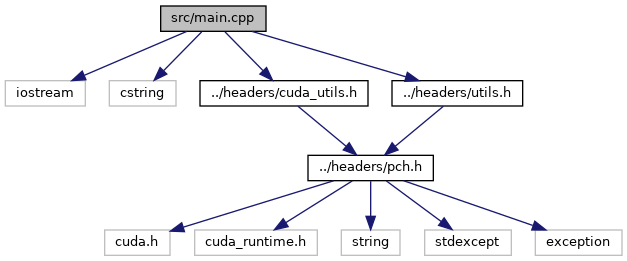
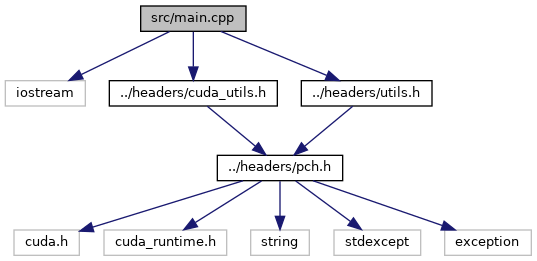
Removed header

diff --git a/Documentation/html/main_8cpp.html b/Documentation/html/main_8cpp.html
@@ -77,7 +77,6 @@ $(function() {
 <p>Main file.  
 <a href="#details">More...</a></p>
 <div class="textblock"><code>#include &lt;iostream&gt;</code><br />
-<code>#include &lt;cstring&gt;</code><br />
 <code>#include &quot;<a class="el" href="cuda__utils_8h_source.html">../headers/cuda_utils.h</a>&quot;</code><br />
 <code>#include &quot;<a class="el" href="utils_8h_source.html">../headers/utils.h</a>&quot;</code><br />
 </div><div class="textblock"><div class="dynheader">
@@ -85,17 +84,16 @@ Include dependency graph for main.cpp:</div>
 <div class="dyncontent">
 <div class="center"><img src="main_8cpp__incl.png" border="0" usemap="#asrc_2main_8cpp" alt=""/></div>
 <map name="asrc_2main_8cpp" id="asrc_2main_8cpp">
-<area shape="rect" title="Main file." alt="" coords="161,5,266,32"/>
+<area shape="rect" title="Main file." alt="" coords="141,5,246,32"/>
 <area shape="rect" title=" " alt="" coords="5,80,85,107"/>
-<area shape="rect" title=" " alt="" coords="109,80,176,107"/>
-<area shape="rect" href="cuda__utils_8h.html" title="Holds CUDA utilities." alt="" coords="200,80,368,107"/>
-<area shape="rect" href="utils_8h.html" title="Provides utility functions." alt="" coords="392,80,523,107"/>
-<area shape="rect" href="pch_8h.html" title="Precompiled header." alt="" coords="308,155,433,181"/>
-<area shape="rect" title=" " alt="" coords="105,229,170,256"/>
-<area shape="rect" title=" " alt="" coords="195,229,317,256"/>
-<area shape="rect" title=" " alt="" coords="341,229,400,256"/>
-<area shape="rect" title=" " alt="" coords="425,229,511,256"/>
-<area shape="rect" title=" " alt="" coords="535,229,622,256"/>
+<area shape="rect" href="cuda__utils_8h.html" title="Holds CUDA utilities." alt="" coords="109,80,277,107"/>
+<area shape="rect" href="utils_8h.html" title="Provides utility functions." alt="" coords="301,80,432,107"/>
+<area shape="rect" href="pch_8h.html" title="Precompiled header." alt="" coords="217,155,343,181"/>
+<area shape="rect" title=" " alt="" coords="14,229,79,256"/>
+<area shape="rect" title=" " alt="" coords="104,229,227,256"/>
+<area shape="rect" title=" " alt="" coords="251,229,309,256"/>
+<area shape="rect" title=" " alt="" coords="334,229,421,256"/>
+<area shape="rect" title=" " alt="" coords="445,229,531,256"/>
 </map>
 </div>
 </div><table class="memberdecls">

diff --git a/Documentation/latex/namespace_utils.tex b/Documentation/latex/namespace_utils.tex
@@ -33,8 +33,7 @@ Application information.
 {\em name} & Application name \\
 \hline
 \end{DoxyParams}
-Here is the caller graph for this function\+:
-\nopagebreak
+Here is the caller graph for this function\+:\nopagebreak
 \begin{figure}[H]
 \begin{center}
 \leavevmode
@@ -60,16 +59,14 @@ Parse command line arguments.
 {\em gpu} & GPU flag \\
 \hline
 \end{DoxyParams}
-Here is the call graph for this function\+:
-\nopagebreak
+Here is the call graph for this function\+:\nopagebreak
 \begin{figure}[H]
 \begin{center}
 \leavevmode
 \includegraphics[width=350pt]{namespace_utils_ab46e847b10ac7963bd320d59d30260e5_cgraph}
 \end{center}
 \end{figure}
-Here is the caller graph for this function\+:
-\nopagebreak
+Here is the caller graph for this function\+:\nopagebreak
 \begin{figure}[H]
 \begin{center}
 \leavevmode

diff --git a/Documentation/latex/main_8cpp.tex b/Documentation/latex/main_8cpp.tex
@@ -6,7 +6,6 @@ Main file.
 
 
 {\ttfamily \#include $<$iostream$>$}\newline
-{\ttfamily \#include $<$cstring$>$}\newline
 {\ttfamily \#include \char`\"{}../headers/cuda\+\_\+utils.\+h\char`\"{}}\newline
 {\ttfamily \#include \char`\"{}../headers/utils.\+h\char`\"{}}\newline
 Include dependency graph for main.\+cpp\+:
@@ -62,8 +61,7 @@ Main function.
 \begin{DoxyReturn}{Returns}
 int Exit code 
 \end{DoxyReturn}
-Here is the call graph for this function\+:
-\nopagebreak
+Here is the call graph for this function\+:\nopagebreak
 \begin{figure}[H]
 \begin{center}
 \leavevmode

diff --git a/Documentation/latex/utils_8h.tex b/Documentation/latex/utils_8h.tex
@@ -6,16 +6,14 @@ Provides utility functions.
 
 
 {\ttfamily \#include \char`\"{}../headers/pch.\+h\char`\"{}}\newline
-Include dependency graph for utils.\+h\+:
-\nopagebreak
+Include dependency graph for utils.\+h\+:\nopagebreak
 \begin{figure}[H]
 \begin{center}
 \leavevmode
 \includegraphics[width=350pt]{utils_8h__incl}
 \end{center}
 \end{figure}
-This graph shows which files directly or indirectly include this file\+:
-\nopagebreak
+This graph shows which files directly or indirectly include this file\+:\nopagebreak
 \begin{figure}[H]
 \begin{center}
 \leavevmode

diff --git a/Documentation/latex/utils_8cpp.tex b/Documentation/latex/utils_8cpp.tex
@@ -9,8 +9,7 @@ Implements \mbox{\hyperlink{utils_8h}{utils.\+h}}.
 {\ttfamily \#include $<$cstring$>$}\newline
 {\ttfamily \#include \char`\"{}../headers/utils.\+h\char`\"{}}\newline
 {\ttfamily \#include \char`\"{}../headers/cuda\+\_\+utils.\+h\char`\"{}}\newline
-Include dependency graph for utils.\+cpp\+:
-\nopagebreak
+Include dependency graph for utils.\+cpp\+:\nopagebreak
 \begin{figure}[H]
 \begin{center}
 \leavevmode

diff --git a/Documentation/latex/cuda__utils_8h.tex b/Documentation/latex/cuda__utils_8h.tex
@@ -13,8 +13,7 @@ Include dependency graph for cuda\+\_\+utils.\+h\+:\nopagebreak
 \includegraphics[width=350pt]{cuda__utils_8h__incl}
 \end{center}
 \end{figure}
-This graph shows which files directly or indirectly include this file\+:
-\nopagebreak
+This graph shows which files directly or indirectly include this file\+:\nopagebreak
 \begin{figure}[H]
 \begin{center}
 \leavevmode

diff --git a/Documentation/latex/pch_8h.tex b/Documentation/latex/pch_8h.tex
@@ -17,8 +17,7 @@ Include dependency graph for pch.\+h\+:\nopagebreak
 \includegraphics[width=350pt]{pch_8h__incl}
 \end{center}
 \end{figure}
-This graph shows which files directly or indirectly include this file\+:
-\nopagebreak
+This graph shows which files directly or indirectly include this file\+:\nopagebreak
 \begin{figure}[H]
 \begin{center}
 \leavevmode

diff --git a/Documentation/latex/dir_68267d1309a1af8e8297ef4c3efbcdba.tex b/Documentation/latex/dir_68267d1309a1af8e8297ef4c3efbcdba.tex
@@ -1,7 +1,6 @@
 \hypertarget{dir_68267d1309a1af8e8297ef4c3efbcdba}{}\doxysection{src Directory Reference}
 \label{dir_68267d1309a1af8e8297ef4c3efbcdba}\index{src Directory Reference@{src Directory Reference}}
-Directory dependency graph for src\+:
-\nopagebreak
+Directory dependency graph for src\+:\nopagebreak
 \begin{figure}[H]
 \begin{center}
 \leavevmode

diff --git a/Documentation/latex/namespace_c_u_d_a_1_1_utils.tex b/Documentation/latex/namespace_c_u_d_a_1_1_utils.tex
@@ -60,8 +60,7 @@ Select a GPU.
 {\em \mbox{\hyperlink{class_exception}{Exception}}} & If the id is invalid \\
 \hline
 \end{DoxyExceptions}
-Here is the caller graph for this function\+:
-\nopagebreak
+Here is the caller graph for this function\+:\nopagebreak
 \begin{figure}[H]
 \begin{center}
 \leavevmode

diff --git a/src/main.cpp b/src/main.cpp
@@ -10,7 +10,6 @@
  */
 
 #include <iostream>
-#include <cstring>
 
 #include "../headers/cuda_utils.h"
 #include "../headers/utils.h"
